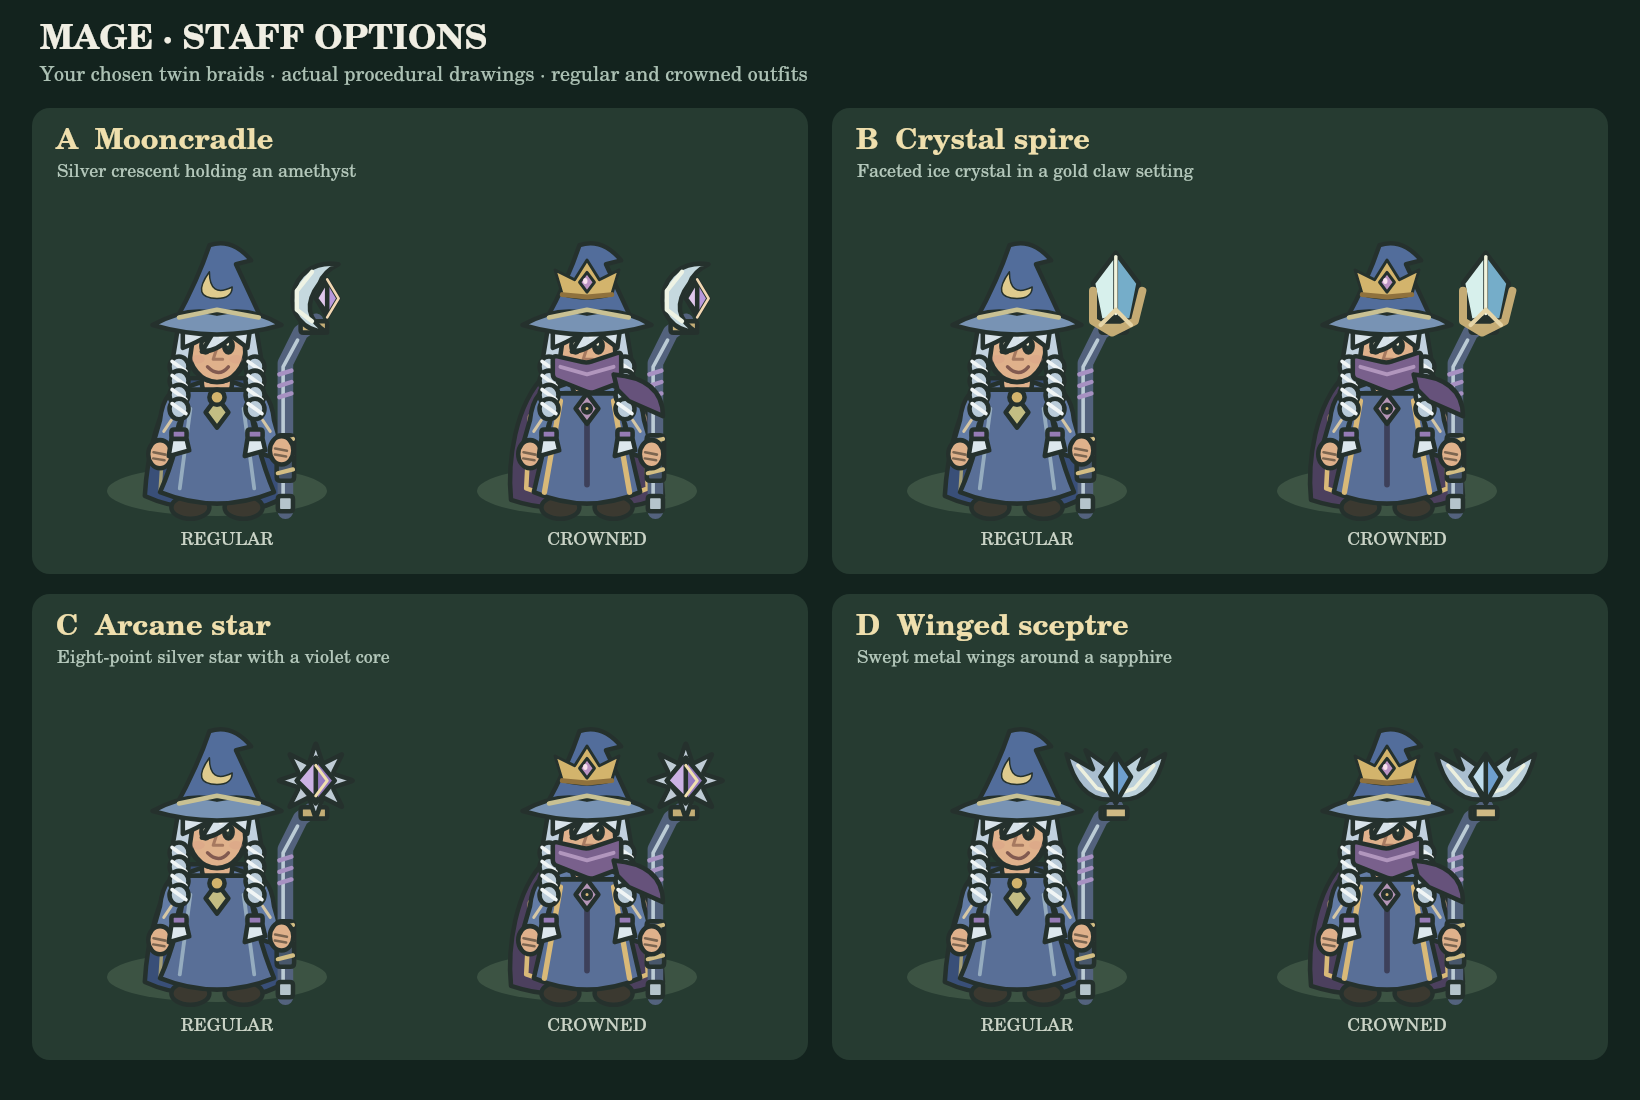
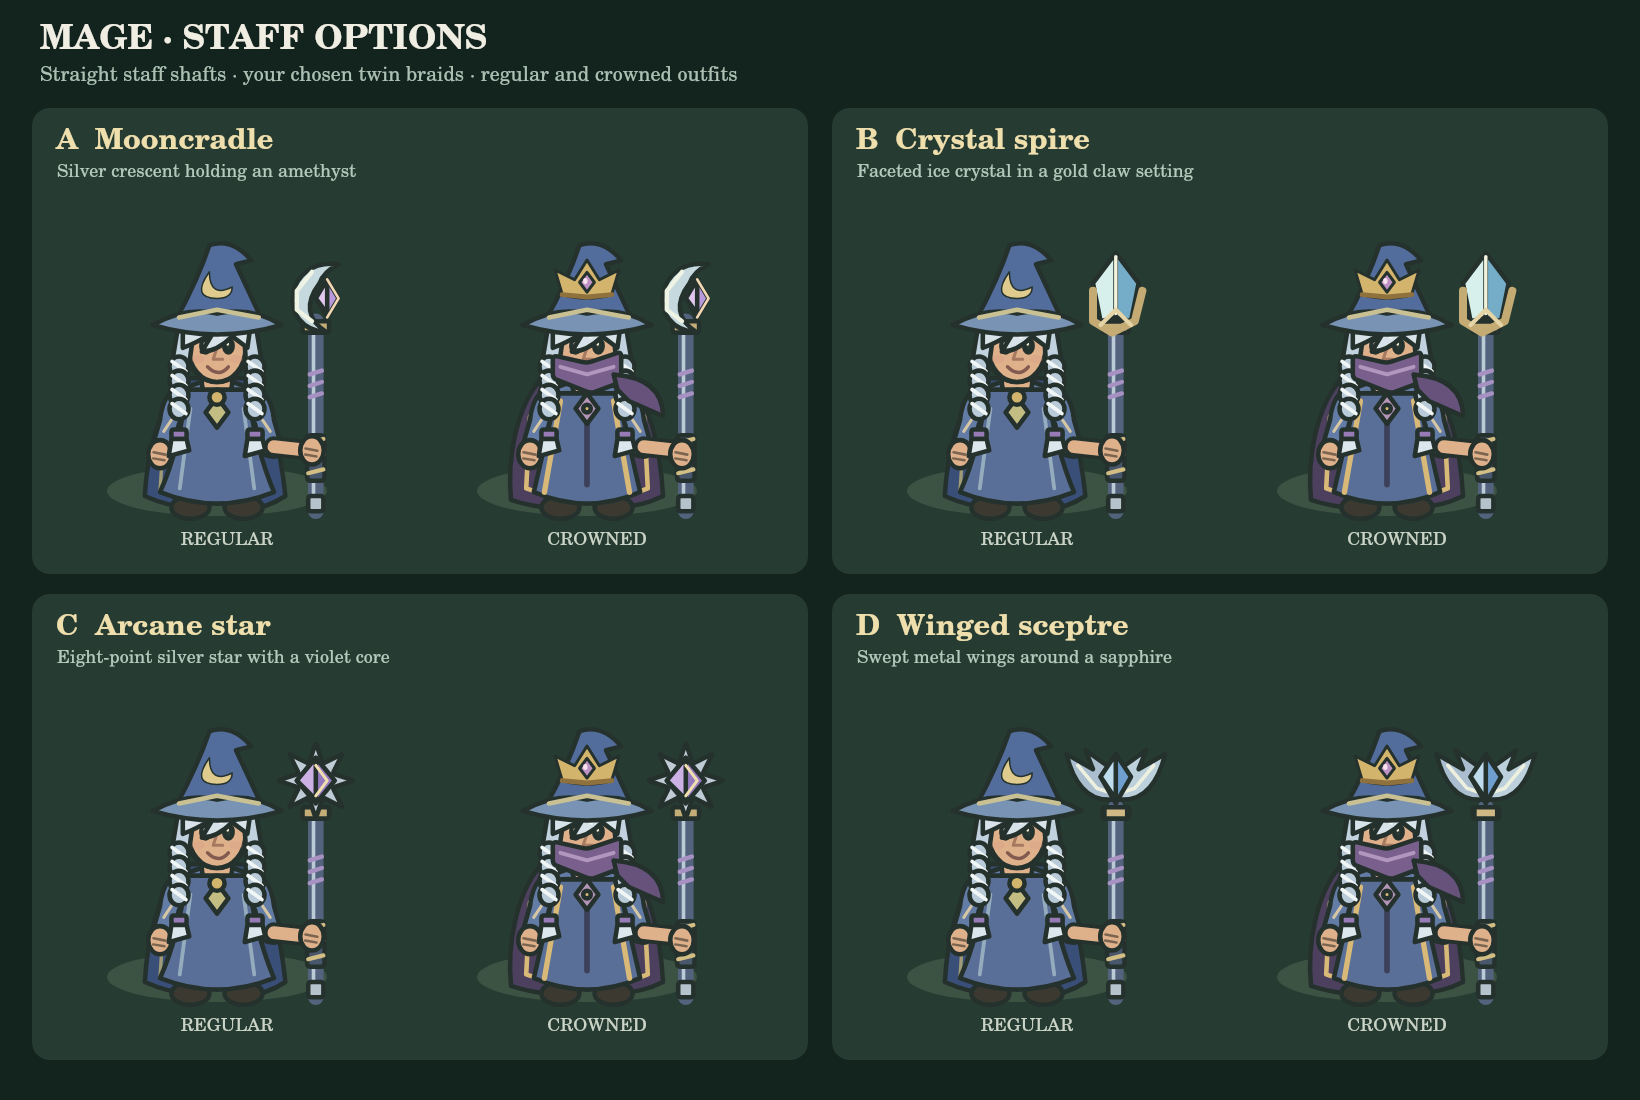
Straighten staff preview shafts while retaining selected twin braids [skip ci]

diff --git a/docs/MAGE_HAIR_QUICKFIX_20261020.md b/docs/MAGE_HAIR_QUICKFIX_20261020.md
@@ -1,5 +1,7 @@
 # Mage hairstyle quick fix — 20 October 2026
 
+**02:31 EDT — staff preview correction:** Joel clarified that the staff shaft must be straight. All four staff previews now have one vertical shaft aligned below the head and a fitted holding hand. Twin braids are unchanged. The updated staff comparison/options supersede the earlier bent shafts. No staff chosen yet; no tests or publication.
+
 **02:23 EDT — combined release held for staff choice:** Twin-braid option C is implemented locally, not merged/published. Joel requested a better staff and asked to choose from options first. [Four actual procedural staff choices](../tools/visual-review/mage-staff-options-20261020/comparison.png) use the accepted braids and show both regular/crowned outfits. [Exact preview code](../tools/visual-review/mage-staff-options-20261020/options.json) is retained. Wait for staff selection, then integrate hair/staff together under the existing no-test publication instruction. Dev.92 remains live.
 
 **Latest owner selection — 02:21 EDT:** Joel rejected the side ponytail because the headgear/staff obscures it. Four actual procedural alternatives were shown in both regular and crowned outfits; Joel selected **C, Twin braids**. Dev.93 applies that exact silver-braid/swept-fringe drawing with violet ties through shared `mageHead`, retaining existing hat/crown/scarf. The accepted [comparison](../tools/visual-review/mage-hair-options-20261020/approved-comparison.png) and [option source](../tools/visual-review/mage-hair-options-20261020/options.json) are retained. The inactive Mage raster metadata is reconciled with prior history retained; its pixels remain unchanged. Other characters and dev.90 performance fixes remain. Build generation/packaging only; no tests or browser checks. Direct merge/publication pending. Earlier dev.92 records below describe the rejected ponytail.
